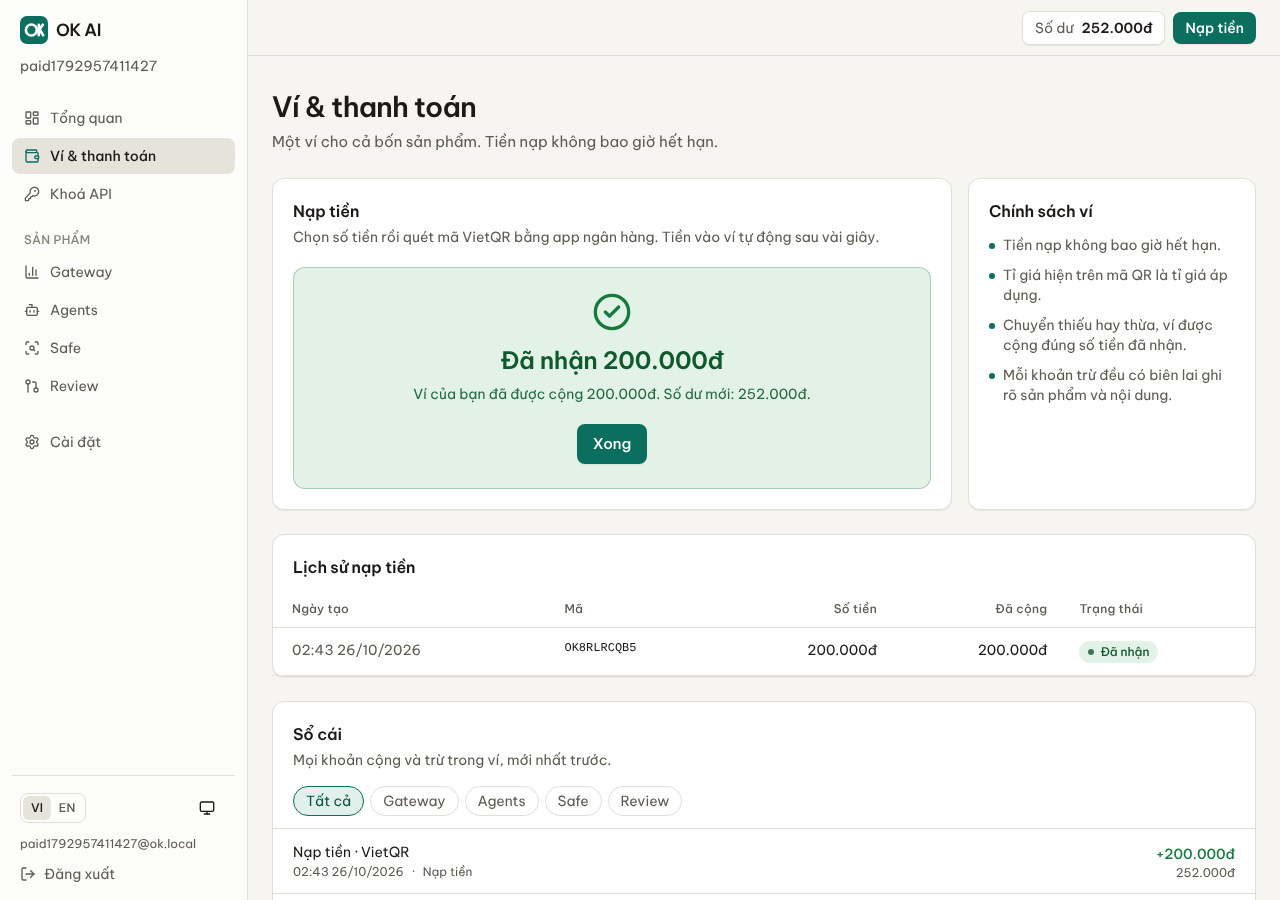
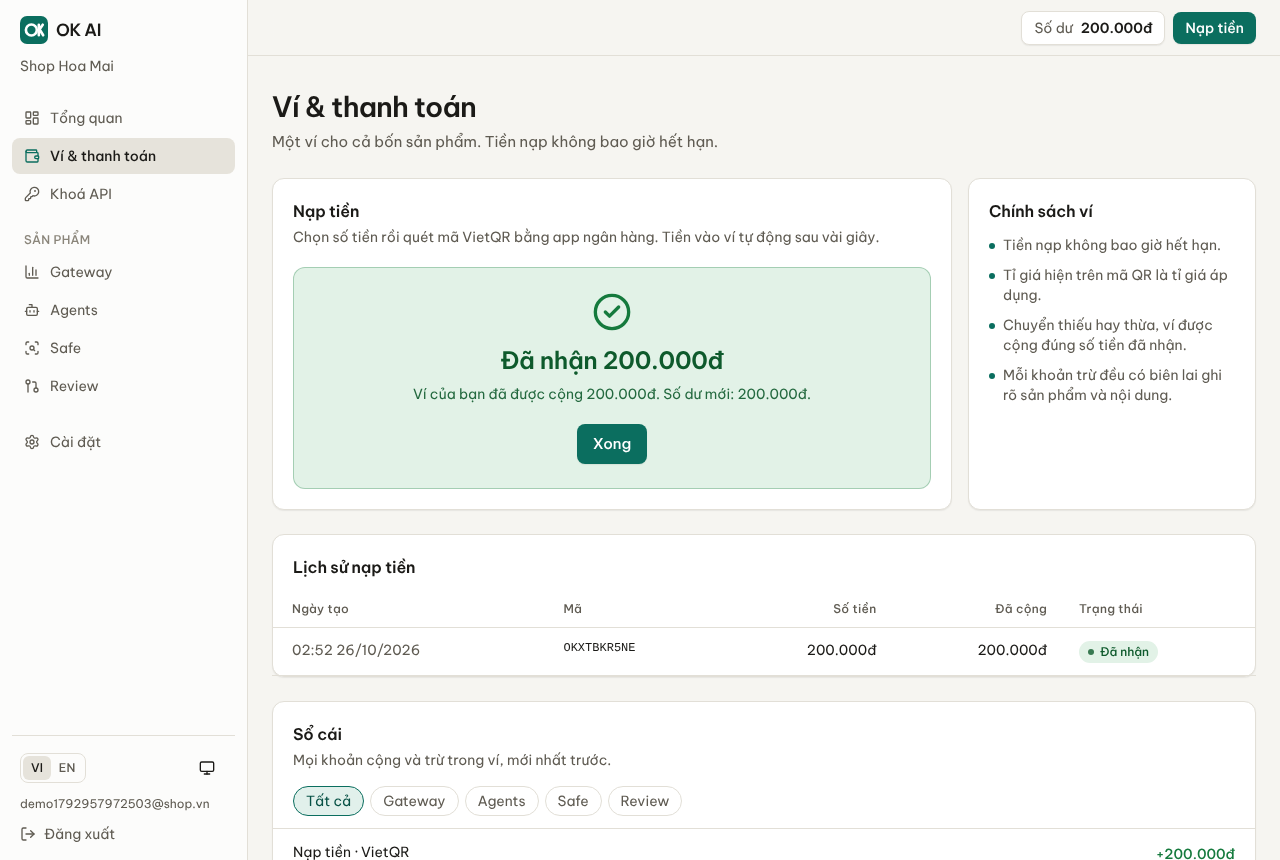
Integrate web console: core key/org APIs, wallet config, compose, fresh screenshots
- core: updateApiKey, renameOrg, listMembers; public GET /v1/wallet/config;
  bank details on top-ups; product filter on wallet entries
- web: use core methods instead of direct table writes; bank details from API;
  public-audience copy for service-down state on /models
- docker-compose: web console service; Safe trusts forwarded client IPs
- screenshots retaken from a full-stack run (signup, VietQR top-up, Safe verdicts)

Claude-Session: https://claude.ai/code/session_01E3Lcz1aJBjNDECeT4eiRvD

diff --git a/packages/core/src/core.ts b/packages/core/src/core.ts
@@ -1,7 +1,7 @@
 import type { DbHandle } from '@ok/db';
 import { migrate } from '@ok/db';
 import { AppError, newId, type ProductId } from '@ok/shared';
-import { and, desc, eq, gt, gte, isNull, lt, sql } from 'drizzle-orm';
+import { and, asc, desc, eq, gt, gte, isNull, lt, sql } from 'drizzle-orm';
 import { generateApiKey, generateSessionToken, hashPassword, sha256, verifyPassword } from './crypto';
 import { coreMigrations } from './migrations';
 import { apiKeys, balances, memberships, orgs, sessions, users, walletEntries } from './schema';
@@ -183,6 +183,30 @@ export class Core {
     await this.db.delete(sessions).where(eq(sessions.tokenHash, sha256(token)));
   }
 
+  async renameOrg(orgId: string, name: string): Promise<Org> {
+    const trimmed = name.trim();
+    if (!trimmed || trimmed.length > 200)
+      throw new AppError('bad_request', 'Organization name must be 1–200 characters');
+    const [org] = await this.db.update(orgs).set({ name: trimmed }).where(eq(orgs.id, orgId)).returning();
+    if (!org) throw new AppError('not_found', 'Organization not found');
+    return org;
+  }
+
+  listMembers(orgId: string) {
+    return this.db
+      .select({
+        userId: users.id,
+        email: users.email,
+        name: users.name,
+        role: memberships.role,
+        createdAt: users.createdAt,
+      })
+      .from(memberships)
+      .innerJoin(users, eq(users.id, memberships.userId))
+      .where(eq(memberships.orgId, orgId))
+      .orderBy(asc(users.createdAt));
+  }
+
   async getOrg(orgId: string): Promise<Org | null> {
     const [org] = await this.db.select().from(orgs).where(eq(orgs.id, orgId));
     return org ?? null;
@@ -227,6 +251,32 @@ export class Core {
       .where(and(eq(apiKeys.id, keyId), eq(apiKeys.orgId, orgId), isNull(apiKeys.revokedAt)))
       .returning({ id: apiKeys.id });
     if (!res.length) throw new AppError('not_found', 'API key not found');
+  }
+
+  /** Update an active key's name, scopes or limits. `null` removes a limit. */
+  async updateApiKey(
+    orgId: string,
+    keyId: string,
+    patch: {
+      name?: string;
+      scopes?: (ProductId | '*')[];
+      spendLimitMicros?: number | null;
+      rateLimitRpm?: number | null;
+    },
+  ): Promise<ApiKeyRecord> {
+    const set: Partial<typeof apiKeys.$inferInsert> = {};
+    if (patch.name !== undefined) set.name = patch.name;
+    if (patch.scopes !== undefined) set.scopes = patch.scopes.length ? patch.scopes : ['*'];
+    if (patch.spendLimitMicros !== undefined) set.spendLimitMicros = patch.spendLimitMicros;
+    if (patch.rateLimitRpm !== undefined) set.rateLimitRpm = patch.rateLimitRpm;
+    if (!Object.keys(set).length) throw new AppError('bad_request', 'Nothing to update');
+    const [record] = await this.db
+      .update(apiKeys)
+      .set(set)
+      .where(and(eq(apiKeys.id, keyId), eq(apiKeys.orgId, orgId), isNull(apiKeys.revokedAt)))
+      .returning();
+    if (!record) throw new AppError('not_found', 'API key not found');
+    return record;
   }
 
   /** Returns the key record if the plaintext key is valid and active, else null. */

diff --git a/packages/core/src/billing-routes.ts b/packages/core/src/billing-routes.ts
@@ -1,4 +1,4 @@
-import { AppError, parseJson } from '@ok/shared';
+import { AppError, PRODUCT_IDS, type ProductId, parseJson } from '@ok/shared';
 import { Hono } from 'hono';
 import { z } from 'zod';
 import type { Billing, Topup } from './billing';
@@ -55,6 +55,9 @@ export function walletRoutes(core: Core, billing: Billing, opts: WalletRoutesOpt
     return c.json({ success: true, outcome }, 200);
   });
 
+  // Public: lets pages show the live rate and whether top-ups are open before sign-in.
+  app.get('/v1/wallet/config', (c) => c.json(billing.publicConfig()));
+
   const auth = authMiddleware(core, { internalToken: opts.internalToken });
   app.use('/v1/wallet', auth);
   app.use('/v1/wallet/*', auth);
@@ -70,6 +73,7 @@ export function walletRoutes(core: Core, billing: Billing, opts: WalletRoutesOpt
     receivedVnd: t.receivedVnd,
     creditedMicros: t.creditedMicros,
     qrImageUrl: billing.qrImageUrl(t),
+    bank: billing.bankAccount,
     expiresAt: t.expiresAt,
     paidAt: t.paidAt,
     createdAt: t.createdAt,
@@ -80,9 +84,13 @@ export function walletRoutes(core: Core, billing: Billing, opts: WalletRoutesOpt
   app.get('/v1/wallet/entries', async (c) => {
     const limit = Number(c.req.query('limit') ?? 50);
     const before = c.req.query('before');
+    const product = c.req.query('product');
+    if (product && !PRODUCT_IDS.includes(product as ProductId))
+      throw new AppError('bad_request', `Unknown product ${product}`);
     const entries = await core.listWalletEntries(getAuth(c).orgId, {
       limit: Number.isFinite(limit) ? limit : 50,
       before: before ? new Date(before) : undefined,
+      product: product as ProductId | undefined,
     });
     return c.json({ data: entries });
   });

diff --git a/packages/core/src/billing.test.ts b/packages/core/src/billing.test.ts
@@ -150,3 +150,30 @@ describe('VietQR top-ups', () => {
     expect(((await ok.json()) as { taxCode: string }).taxCode).toBe('0312345678');
   });
 });
+
+describe('wallet config and filters', () => {
+  it('exposes public config without auth, bank details on top-ups, and filters entries by product', async () => {
+    const cfg = (await (await app().request('/v1/wallet/config')).json()) as {
+      topupsEnabled: boolean;
+      vndPerUsd: number;
+    };
+    expect(cfg).toMatchObject({ topupsEnabled: true, vndPerUsd: 25_000, creditsExpire: false });
+
+    const org = await core.createOrg('Shop Filter', 1_000_000);
+    await core.debit(org.id, 100, { product: 'safe' });
+    await core.debit(org.id, 200, { product: 'gateway' });
+    const res = await app().request('/v1/wallet/entries?product=safe', { headers: asOrg(org.id) });
+    const { data } = (await res.json()) as { data: { product: string }[] };
+    expect(data.map((e) => e.product)).toEqual(['safe']);
+    expect((await app().request('/v1/wallet/entries?product=nope', { headers: asOrg(org.id) })).status).toBe(
+      400,
+    );
+
+    const created = await app().request('/v1/wallet/topups', {
+      method: 'POST',
+      headers: asOrg(org.id),
+      body: JSON.stringify({ amountVnd: 100_000 }),
+    });
+    expect(((await created.json()) as { bank: { accountNo: string } }).bank.accountNo).toBe('0123456789');
+  });
+});

diff --git a/apps/web/lib/keys.ts b/apps/web/lib/keys.ts
@@ -1,26 +1,21 @@
 import 'server-only';
-import { coreSchema } from '@ok/core';
-import { and, eq, isNull } from 'drizzle-orm';
+import { isAppError } from '@ok/shared';
 import { platform } from './platform';
 
-/**
- * Change (or remove) a key's spending cap. `@ok/core` has no update method
- * for keys yet, so this writes the core table directly (same shared schema).
- * TODO(core): move to `Core.updateApiKey()`.
- */
+/** Change (or remove) a key's spending cap. Returns false if the key is unknown or revoked. */
 export async function setKeySpendLimit(
   orgId: string,
   keyId: string,
   spendLimitMicros: number | null,
 ): Promise<boolean> {
   const { core } = await platform();
-  const k = coreSchema.apiKeys;
-  const rows = await core.database
-    .update(k)
-    .set({ spendLimitMicros })
-    .where(and(eq(k.id, keyId), eq(k.orgId, orgId), isNull(k.revokedAt)))
-    .returning({ id: k.id });
-  return rows.length > 0;
+  try {
+    await core.updateApiKey(orgId, keyId, { spendLimitMicros });
+    return true;
+  } catch (err) {
+    if (isAppError(err) && err.code === 'not_found') return false;
+    throw err;
+  }
 }
 
 /** Key fields safe to send to the browser (never the hash). */

diff --git a/packages/core/src/core.test.ts b/packages/core/src/core.test.ts
@@ -129,3 +129,26 @@ describe('ensureOrg', () => {
     expect(await core.getBalance('org_platform_test')).toBe(5_000);
   });
 });
+
+describe('org and key management', () => {
+  it('renames orgs, lists members and updates key limits', async () => {
+    const { org, user } = await core.signUp({
+      email: 'owner@shop.vn',
+      password: 'long-enough-pw',
+      name: 'Chủ shop',
+    });
+    expect((await core.renameOrg(org.id, '  Shop Hoa  ')).name).toBe('Shop Hoa');
+    const members = await core.listMembers(org.id);
+    expect(members).toEqual([
+      expect.objectContaining({ userId: user.id, role: 'owner', email: 'owner@shop.vn' }),
+    ]);
+
+    const { record } = await core.createApiKey(org.id, { name: 'k', spendLimitMicros: 100 });
+    const updated = await core.updateApiKey(org.id, record.id, { spendLimitMicros: null, scopes: ['safe'] });
+    expect(updated.spendLimitMicros).toBeNull();
+    expect(updated.scopes).toEqual(['safe']);
+    await expect(core.updateApiKey('org_other', record.id, { name: 'x' })).rejects.toMatchObject({
+      code: 'not_found',
+    });
+  });
+});

diff --git a/apps/web/lib/org.ts b/apps/web/lib/org.ts
@@ -1,25 +1,12 @@
 import 'server-only';
-import { coreSchema } from '@ok/core';
-import { asc, eq } from 'drizzle-orm';
 import { platform } from './platform';
 
-/**
- * Org-level reads/writes that `@ok/core` doesn't expose yet. They touch only
- * the shared `core` schema. TODO(core): `Core.renameOrg()` and `Core.listMembers()`.
- */
 export async function renameOrg(orgId: string, name: string): Promise<void> {
   const { core } = await platform();
-  await core.database.update(coreSchema.orgs).set({ name }).where(eq(coreSchema.orgs.id, orgId));
+  await core.renameOrg(orgId, name);
 }
 
 export async function listMembers(orgId: string) {
   const { core } = await platform();
-  const m = coreSchema.memberships;
-  const u = coreSchema.users;
-  return core.database
-    .select({ userId: u.id, email: u.email, name: u.name, role: m.role, createdAt: u.createdAt })
-    .from(m)
-    .innerJoin(u, eq(u.id, m.userId))
-    .where(eq(m.orgId, orgId))
-    .orderBy(asc(u.createdAt));
+  return core.listMembers(orgId);
 }

diff --git a/apps/web/lib/vietqr.ts b/apps/web/lib/vietqr.ts
@@ -70,3 +70,21 @@ export function parseVietQrUrl(url: string | null | undefined): VietQrInfo | nul
     addInfo: u.searchParams.get('addInfo'),
   };
 }
+
+/** Bank details for a top-up: the API's `bank` field when present, else parsed from the QR URL. */
+export function topupBankInfo(topup: {
+  qrImageUrl: string | null;
+  bank?: { bankId: string; accountNo: string; accountName: string } | null;
+}): VietQrInfo | null {
+  const parsed = parseVietQrUrl(topup.qrImageUrl);
+  if (!topup.bank) return parsed;
+  const { bankId, accountNo, accountName } = topup.bank;
+  return {
+    bankId,
+    bankName: BANK_BINS[bankId] ?? bankId.replace(/^\w/, (c) => c.toUpperCase()),
+    accountNo,
+    accountName,
+    amount: parsed?.amount ?? null,
+    addInfo: parsed?.addInfo ?? null,
+  };
+}

diff --git a/apps/web/app/console/billing/topup-panel.tsx b/apps/web/app/console/billing/topup-panel.tsx
@@ -19,7 +19,7 @@ import {
 } from '@/lib/format';
 import { fmt } from '@/lib/i18n';
 import type { Topup } from '@/lib/types/gateway';
-import { parseVietQrUrl } from '@/lib/vietqr';
+import { topupBankInfo } from '@/lib/vietqr';
 import { createTopupAction } from './actions';
 
 export const PRESETS = [100_000, 200_000, 500_000, 1_000_000, 2_000_000, 5_000_000];
@@ -184,7 +184,7 @@ export function TopupPanel({
 
   if (view.kind === 'qr') {
     const tp = view.topup;
-    const qr = parseVietQrUrl(tp.qrImageUrl);
+    const qr = topupBankInfo(tp);
     const expired = new Date(tp.expiresAt).getTime() < Date.now();
     return (
       <div className="grid gap-6 md:grid-cols-[minmax(0,15rem)_1fr]">

diff --git a/apps/web/components/console.tsx b/apps/web/components/console.tsx
@@ -18,10 +18,13 @@ export function ServiceProblem({
   error,
   t,
   className,
+  audience = 'console',
 }: {
   error: ServiceErrorInfo;
   t: Dict;
   className?: string;
+  /** Public pages talk to visitors who may have no account or balance. */
+  audience?: 'console' | 'public';
 }) {
   const service = SERVICE_NAMES[error.service];
   if (error.kind === 'down') {
@@ -32,7 +35,7 @@ export function ServiceProblem({
         title={fmt(t.errors.serviceDown, { service })}
         className={className}
       >
-        {t.errors.serviceDownBody}
+        {audience === 'public' ? t.errors.serviceDownBodyPublic : t.errors.serviceDownBody}
       </Notice>
     );
   }

diff --git a/apps/web/lib/i18n/vi.ts b/apps/web/lib/i18n/vi.ts
@@ -327,6 +327,8 @@ export const vi = {
     serviceDown: '{service} đang không phản hồi',
     serviceDownBody:
       'Phần này sẽ hiện lại khi dịch vụ chạy trở lại. Dữ liệu và số dư của bạn không bị ảnh hưởng.',
+    serviceDownBodyPublic:
+      'Phần này sẽ hiện lại khi dịch vụ chạy trở lại. Bạn thử tải lại trang sau ít phút.',
     timeout: '{service} phản hồi quá chậm. Bạn thử tải lại trang.',
     generic: 'Có lỗi xảy ra: {message}',
     notFoundTitle: 'Không tìm thấy trang',

diff --git a/packages/core/src/billing.ts b/packages/core/src/billing.ts
@@ -71,6 +71,20 @@ export class Billing {
     return this.opts.now?.() ?? new Date();
   }
 
+  get bankAccount(): BankAccount | null {
+    return this.opts.bank ?? null;
+  }
+
+  publicConfig() {
+    return {
+      topupsEnabled: Boolean(this.opts.bank),
+      minTopupVnd: this.opts.minTopupVnd ?? 20_000,
+      maxTopupVnd: this.opts.maxTopupVnd ?? 50_000_000,
+      vndPerUsd: this.opts.vndPerUsd,
+      creditsExpire: false,
+    };
+  }
+
   vndToMicros(vnd: number, rate = this.opts.vndPerUsd): number {
     return Math.floor((vnd * MICRO) / rate);
   }

diff --git a/apps/web/lib/i18n/en.ts b/apps/web/lib/i18n/en.ts
@@ -327,6 +327,8 @@ export const en: Dict = {
     serviceDown: '{service} is not responding',
     serviceDownBody:
       'This section will come back when the service is running again. Your data and balance are not affected.',
+    serviceDownBodyPublic:
+      'This section will come back as soon as the service is up again. Please reload in a few minutes.',
     timeout: '{service} is responding too slowly. Try reloading the page.',
     generic: 'Something went wrong: {message}',
     notFoundTitle: 'Page not found',
